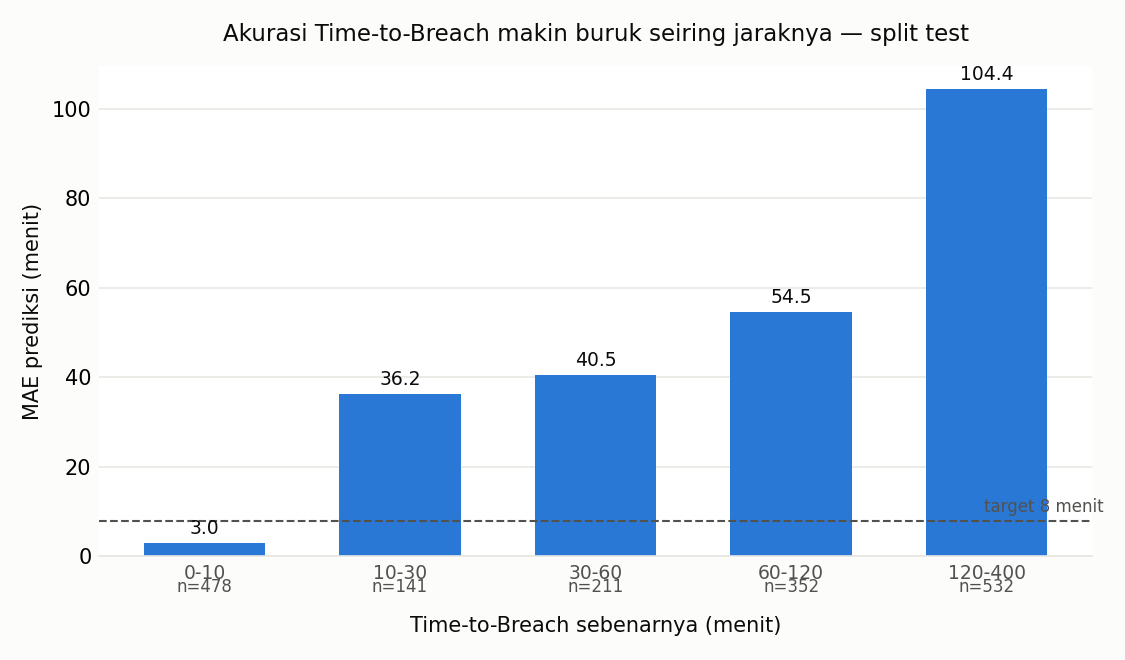
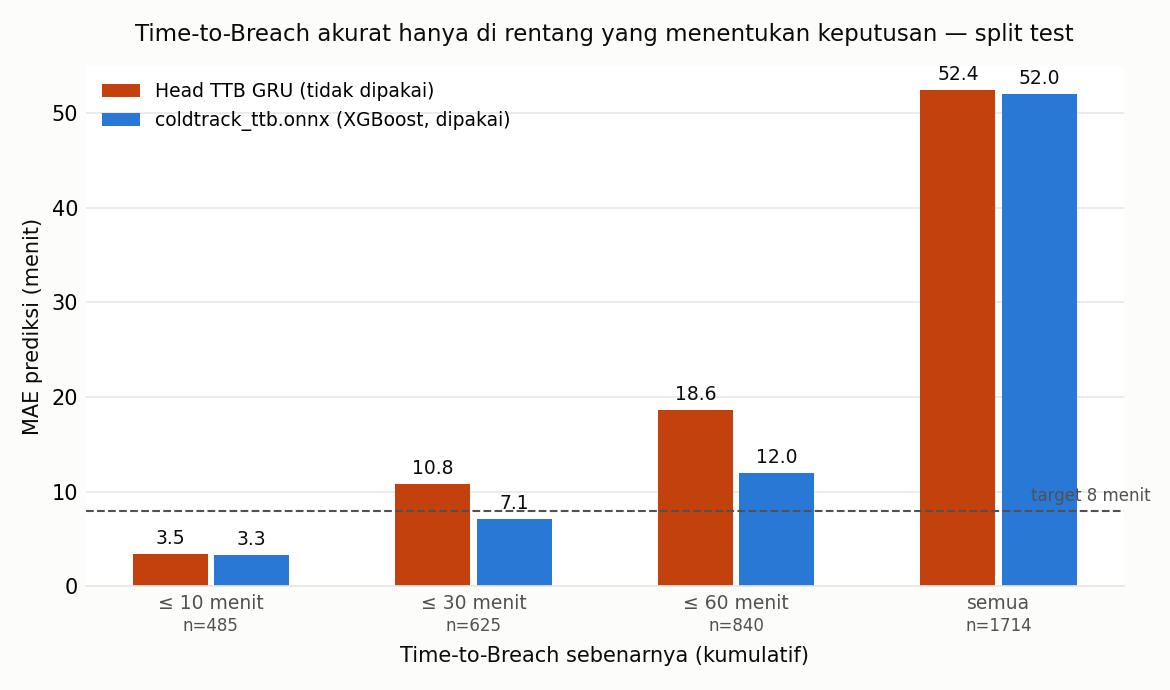
fix(ml): plot TTB dari model yang benar-benar dipakai + koreksi angka GRU
Grafik ttb_by_horizon.png selama ini memplot head TTB milik GRU yang sudah
ditinggalkan, sehingga bertentangan dengan angka 7,08 menit di proposal yang
berasal dari coldtrack_ttb.onnx (XGBoost). Grafik kini membandingkan keduanya
pada ambang kumulatif yang sama dengan cara pelaporan di proposal.

Angka acuan GRU (6,9 / 17,9 / 52,98 menit) juga tidak dapat direproduksi dari
checkpoint final; pengukuran ulang di split test memberi 3,5 / 10,8 / 52,4.
Kesimpulannya tidak berubah -- GRU 10,8 menit tetap gagal target 8 menit,
XGBoost 7,1 menit lolos -- tetapi angkanya diperbaiki di seluruh dokumen.

diff --git a/ml/make_reports.py b/ml/make_reports.py
@@ -8,6 +8,7 @@ Menjalankan: python -m ml.make_reports
 """
 
 import json
+import os
 
 import matplotlib
 
@@ -26,6 +27,7 @@ from ml.scaler import apply_scaler, load_scaler
 TEST_PATH = "data/processed/windows/windows_test.npz"
 VAL_PATH = "data/processed/windows/windows_val.npz"
 CHECKPOINT = "ml/reports/coldtrack_finetuned.pt"
+TTB_ONNX = "ml/reports/coldtrack_ttb.onnx"
 SCALER_PATH = "ml/reports/scaler_finetune.npz"
 BASELINE_PATH = "ml/reports/baseline_metrics.json"
 ABLATION_PATH = "ml/reports/ablation_results.json"
@@ -43,7 +45,12 @@ BLUE_RAMP = ["#fcfcfb", "#cde2fb", "#b7d3f6", "#9ec5f4", "#86b6ef", "#6da7ec",
              "#5598e7", "#3987e5", "#2a78d6", "#256abf", "#1c5cab", "#184f95",
              "#104281", "#0d366b"]
 
+SERIES_2 = "#c2410c"
+
 HORIZON_BUCKETS = [(0, 10), (10, 30), (30, 60), (60, 120), (120, 400)]
+# Ambang KUMULATIF -- sama persis dengan cara angka TTB dilaporkan di proposal
+# dan di labels.json (MAE untuk semua jendela dengan TTB <= batas).
+CUM_THRESHOLDS = [10, 30, 60, None]
 
 
 def load_model():
@@ -117,34 +124,78 @@ def plot_confusion(d, pred, macro_f1):
     print(f"Tersimpan: {CM_OUT}")
 
 
-def plot_ttb(horizon):
-    label = [h["rentang_menit"] for h in horizon]
-    mae = [h["mae_menit"] for h in horizon]
-    n = [h["n"] for h in horizon]
+def ttb_kumulatif(aktual, pred):
+    """MAE pada ambang kumulatif (TTB <= batas), bukan bucket terpisah.
+    Ini cara yang dipakai di proposal dan labels.json, sehingga angkanya
+    bisa dicocokkan langsung dengan teks."""
+    hasil = []
+    for batas in CUM_THRESHOLDS:
+        sel = np.ones(len(aktual), dtype=bool) if batas is None else aktual <= batas
+        hasil.append({
+            "label": "semua" if batas is None else f"≤ {batas} menit",
+            "n": int(sel.sum()),
+            "mae_menit": float(np.abs(pred[sel] - aktual[sel]).mean()),
+        })
+    return hasil
 
-    fig, ax = plt.subplots(figsize=(7.5, 4.4))
-    ax.bar(range(len(mae)), mae, width=0.62, color=SERIES_1)
+
+def prediksi_ttb_onnx(X):
+    """Prediksi dari coldtrack_ttb.onnx -- model TTB yang benar-benar dipakai
+    produksi. Dikembalikan None bila berkasnya belum diekspor."""
+    if not os.path.exists(TTB_ONNX):
+        return None
+    import onnxruntime as ort
+    sess = ort.InferenceSession(TTB_ONNX)
+    return np.ravel(sess.run(None, {"window": X.astype(np.float32)})[0])
+
+
+def plot_ttb(d, ttb_gru):
+    """Bandingkan head TTB milik GRU dengan coldtrack_ttb.onnx (XGBoost) pada
+    ambang kumulatif yang sama. Grafik lama hanya memplot GRU, padahal TTB
+    yang dikirim ke pengguna berasal dari XGBoost."""
+    msk = d["y_ttb"] != SENTINEL
+    aktual = d["y_ttb"][msk]
+    ttb_xgb = prediksi_ttb_onnx(d["X"][msk])
+
+    seri = [("Head TTB GRU (tidak dipakai)", ttb_kumulatif(aktual, ttb_gru[msk]), SERIES_2)]
+    if ttb_xgb is not None:
+        seri.append(("coldtrack_ttb.onnx (XGBoost, dipakai)",
+                     ttb_kumulatif(aktual, ttb_xgb), SERIES_1))
+
+    label = [h["label"] for h in seri[0][1]]
+    n = [h["n"] for h in seri[0][1]]
+    x = np.arange(len(label))
+    lebar = 0.62 / len(seri)
+    puncak = max(h["mae_menit"] for _, hs, _ in seri for h in hs)
+
+    fig, ax = plt.subplots(figsize=(7.8, 4.6))
+    for i, (nama, hs, warna) in enumerate(seri):
+        pos = x + (i - (len(seri) - 1) / 2) * lebar
+        ax.bar(pos, [h["mae_menit"] for h in hs], width=lebar * 0.92, color=warna, label=nama)
+        for px, h in zip(pos, hs):
+            ax.text(px, h["mae_menit"] + puncak * 0.02, f"{h['mae_menit']:.1f}",
+                    ha="center", fontsize=9, color=INK)
 
     ax.axhline(TARGETS["ttb_mae_menit"][1], color=INK_MUTED, linestyle="--", linewidth=1)
-    ax.text(len(mae) - 0.4, TARGETS["ttb_mae_menit"][1] + 2, "target 8 menit",
+    ax.text(len(label) - 0.42, TARGETS["ttb_mae_menit"][1] + puncak * 0.02, "target 8 menit",
             fontsize=8, color=INK_MUTED, ha="right")
 
-    for i, (v, cnt) in enumerate(zip(mae, n)):
-        ax.text(i, v + 2, f"{v:.1f}", ha="center", fontsize=9, color=INK)
-        ax.text(i, -8, f"n={cnt}", ha="center", fontsize=8, color=INK_MUTED)
+    for xi, cnt in zip(x, n):
+        ax.text(xi, -puncak * 0.09, f"n={cnt}", ha="center", fontsize=8, color=INK_MUTED)
 
-    ax.set_xticks(range(len(label)))
+    ax.set_xticks(x)
     ax.set_xticklabels(label, fontsize=9, color=INK_MUTED)
-    ax.set_xlabel("Time-to-Breach sebenarnya (menit)", fontsize=10, color=INK, labelpad=16)
+    ax.set_xlabel("Time-to-Breach sebenarnya (kumulatif)", fontsize=10, color=INK, labelpad=16)
     ax.set_ylabel("MAE prediksi (menit)", fontsize=10, color=INK)
-    ax.set_title("Akurasi Time-to-Breach makin buruk seiring jaraknya — split test",
+    ax.set_title("Time-to-Breach akurat hanya di rentang yang menentukan keputusan — split test",
                  fontsize=11, color=INK, pad=12)
+    ax.legend(frameon=False, fontsize=9, loc="upper left")
 
     ax.grid(axis="y", color="#e8e7e3", linewidth=0.8)
     ax.set_axisbelow(True)
     ax.tick_params(length=0)
-    for s in ["top", "right", "left"]:
-        ax.spines[s].set_visible(False)
+    for s_ in ["top", "right", "left"]:
+        ax.spines[s_].set_visible(False)
     ax.spines["bottom"].set_color("#e8e7e3")
 
     fig.tight_layout()
@@ -202,7 +253,7 @@ def main():
     print(f"Tersimpan: {METRICS_OUT}")
 
     plot_confusion(d_test, pred_test, m_test["macro_f1"])
-    plot_ttb(horizon)
+    plot_ttb(d_test, ttb_test)
 
     print("\nMetrik test vs target:")
     for nama, s in status.items():

diff --git a/ml/export_ttb_xgboost.py b/ml/export_ttb_xgboost.py
@@ -2,7 +2,7 @@
 
 Latar belakang. Evaluasi di split test menunjukkan head TTB milik GRU jauh
 tertinggal dari XGBoost pada rentang yang menentukan keputusan operasional:
-MAE 17,9 vs 7,6 menit untuk TTB <= 30 menit. Karena itu TTB dipindahkan ke
+MAE 10,8 vs 7,1 menit untuk TTB <= 30 menit. Karena itu TTB dipindahkan ke
 XGBoost, sementara forecast suhu dan klasifikasi mode kegagalan tetap ditangani
 GRU yang sudah terpasang.
 
@@ -131,7 +131,7 @@ def verifikasi():
 
     print("\nAkurasi di split test (pembanding: head TTB milik GRU):")
     hasil = {}
-    for batas, acuan_gru in [(10, 6.9), (30, 17.9), (10**9, 52.98)]:
+    for batas, acuan_gru in [(10, 3.5), (30, 10.8), (10**9, 52.42)]:
         sel = aktual <= batas
         mae = float(np.abs(pred[sel] - aktual[sel]).mean())
         nama = "keseluruhan" if batas > 1000 else f"TTB <= {batas} menit"
@@ -159,8 +159,8 @@ def perbarui_labels(hasil):
     kontrak["model_ttb_terpisah"] = {
         "file": "coldtrack_ttb.onnx",
         "alasan": (
-            "Head TTB milik GRU tertinggal jauh di rentang yang menentukan keputusan "
-            "(MAE 17,9 vs 7,6 menit untuk TTB <= 30 menit di split test), sehingga tugas "
+            "Head TTB milik GRU tertinggal di rentang yang menentukan keputusan "
+            "(MAE 10,8 vs 7,1 menit untuk TTB <= 30 menit di split test), sehingga tugas "
             "ini dipindahkan ke XGBoost. Forecast suhu dan klasifikasi mode kegagalan "
             "tetap ditangani coldtrack.onnx."
         ),

diff --git a/docs/PROPOSAL.md b/docs/PROPOSAL.md
@@ -337,7 +337,7 @@ karena itu dilatih dari nol.**
 | Prediksi suhu t+30 (°C) | 0,198 | **0,189** | 0,338 | — |
 | Macro F1 | 0,581 | **0,664** | — | — |
 | PR-AUC anomali | 0,711 | **0,753** | — | 0,371 |
-| Time-to-Breach ≤ 30 menit | 17,9 | **7,1** | — | — |
+| Time-to-Breach ≤ 30 menit | 10,8 | **7,1** | — | — |
 
 **XGBoost mengungguli GRU pada seluruh metrik.** Kami memilih melaporkannya daripada
 menyembunyikannya, dan mengambil konsekuensinya: Time-to-Breach dipindahkan ke XGBoost, karena di
@@ -700,7 +700,7 @@ pangan dan farmasi.
 |---|---|---|
 | A | Kurva loss pretrain vs dari nol | `ml/reports/loss_curves.png` |
 | B | Confusion matrix 7 kelas | `ml/reports/confusion_matrix.png` |
-| C | MAE Time-to-Breach per horizon | `ml/reports/ttb_by_horizon.png` |
+| C | MAE Time-to-Breach per horizon — GRU vs XGBoost | `ml/reports/ttb_by_horizon.png` |
 | D | Model Card lengkap | `docs/model_card.md` |
 | E | Dataset Card lengkap | `docs/dataset_card.md` |
 | F | Kontrak API | `docs/api_contract.md` |

diff --git a/docs/proposal_6_kesimpulan.md b/docs/proposal_6_kesimpulan.md
@@ -31,8 +31,8 @@ lebih baik pada data latih tetapi lebih buruk pada data validasi — pola khas *
 final dilatih dari nol.
 
 **Model pohon mengungguli jaringan saraf pada tugas Time-to-Breach.** Kepala TTB milik GRU
-tertinggal jauh di rentang yang justru menentukan keputusan (MAE 17,9 menit dibanding 7,6 menit
-untuk TTB ≤ 30 menit). Tugas itu kami pindahkan ke XGBoost. Sistem final memakai dua model, bukan
+tertinggal di rentang yang justru menentukan keputusan (MAE 10,8 menit dibanding 7,1 menit
+untuk TTB ≤ 30 menit) — cukup untuk menentukan lolos atau tidaknya target 8 menit. Tugas itu kami pindahkan ke XGBoost. Sistem final memakai dua model, bukan
 satu.
 
 **Kesalahan yang paling berbahaya ditemukan justru di tahap integrasi, bukan di tahap pemodelan.**

diff --git a/docs/proposal_4_2_alur_pengembangan_model.md b/docs/proposal_4_2_alur_pengembangan_model.md
@@ -110,7 +110,7 @@ Untuk menjawab "mengapa perlu deep learning", kami menguji tiga baseline pada da
 | Prediksi suhu t+30 (°C) | 0,198 | **0,189** | 0,338 | — |
 | Macro F1 | 0,581 | **0,664** | — | — |
 | PR-AUC anomali | 0,711 | **0,753** | — | 0,371 |
-| Time-to-Breach ≤ 30 menit | 17,9 | **7,1** | — | — |
+| Time-to-Breach ≤ 30 menit | 10,8 | **7,1** | — | — |
 
 **XGBoost mengungguli GRU pada seluruh metrik.** Kami memilih melaporkannya daripada menyembunyikannya,
 dan mengambil konsekuensinya: Time-to-Breach dipindahkan ke XGBoost, karena di situlah selisihnya

diff --git a/docs/model_card.md b/docs/model_card.md
@@ -124,7 +124,7 @@ Untuk menjawab pertanyaan "mengapa perlu deep learning", tiga baseline diuji pad
 | Macro F1 | 0,581 | **0,664** | — | — |
 | Akurasi | 0,813 | **0,871** | — | — |
 | PR-AUC anomali | 0,711 | **0,753** | — | 0,371 |
-| TTB ≤ 30 menit (menit) | 17,9 | **7,1** | — | — |
+| TTB ≤ 30 menit (menit) | 10,8 | **7,1** | — | — |
 
 **XGBoost mengungguli GRU pada seluruh metrik.** Temuan ini dilaporkan apa adanya, dan menjadi
 dasar keputusan memakai XGBoost untuk Time-to-Breach.
